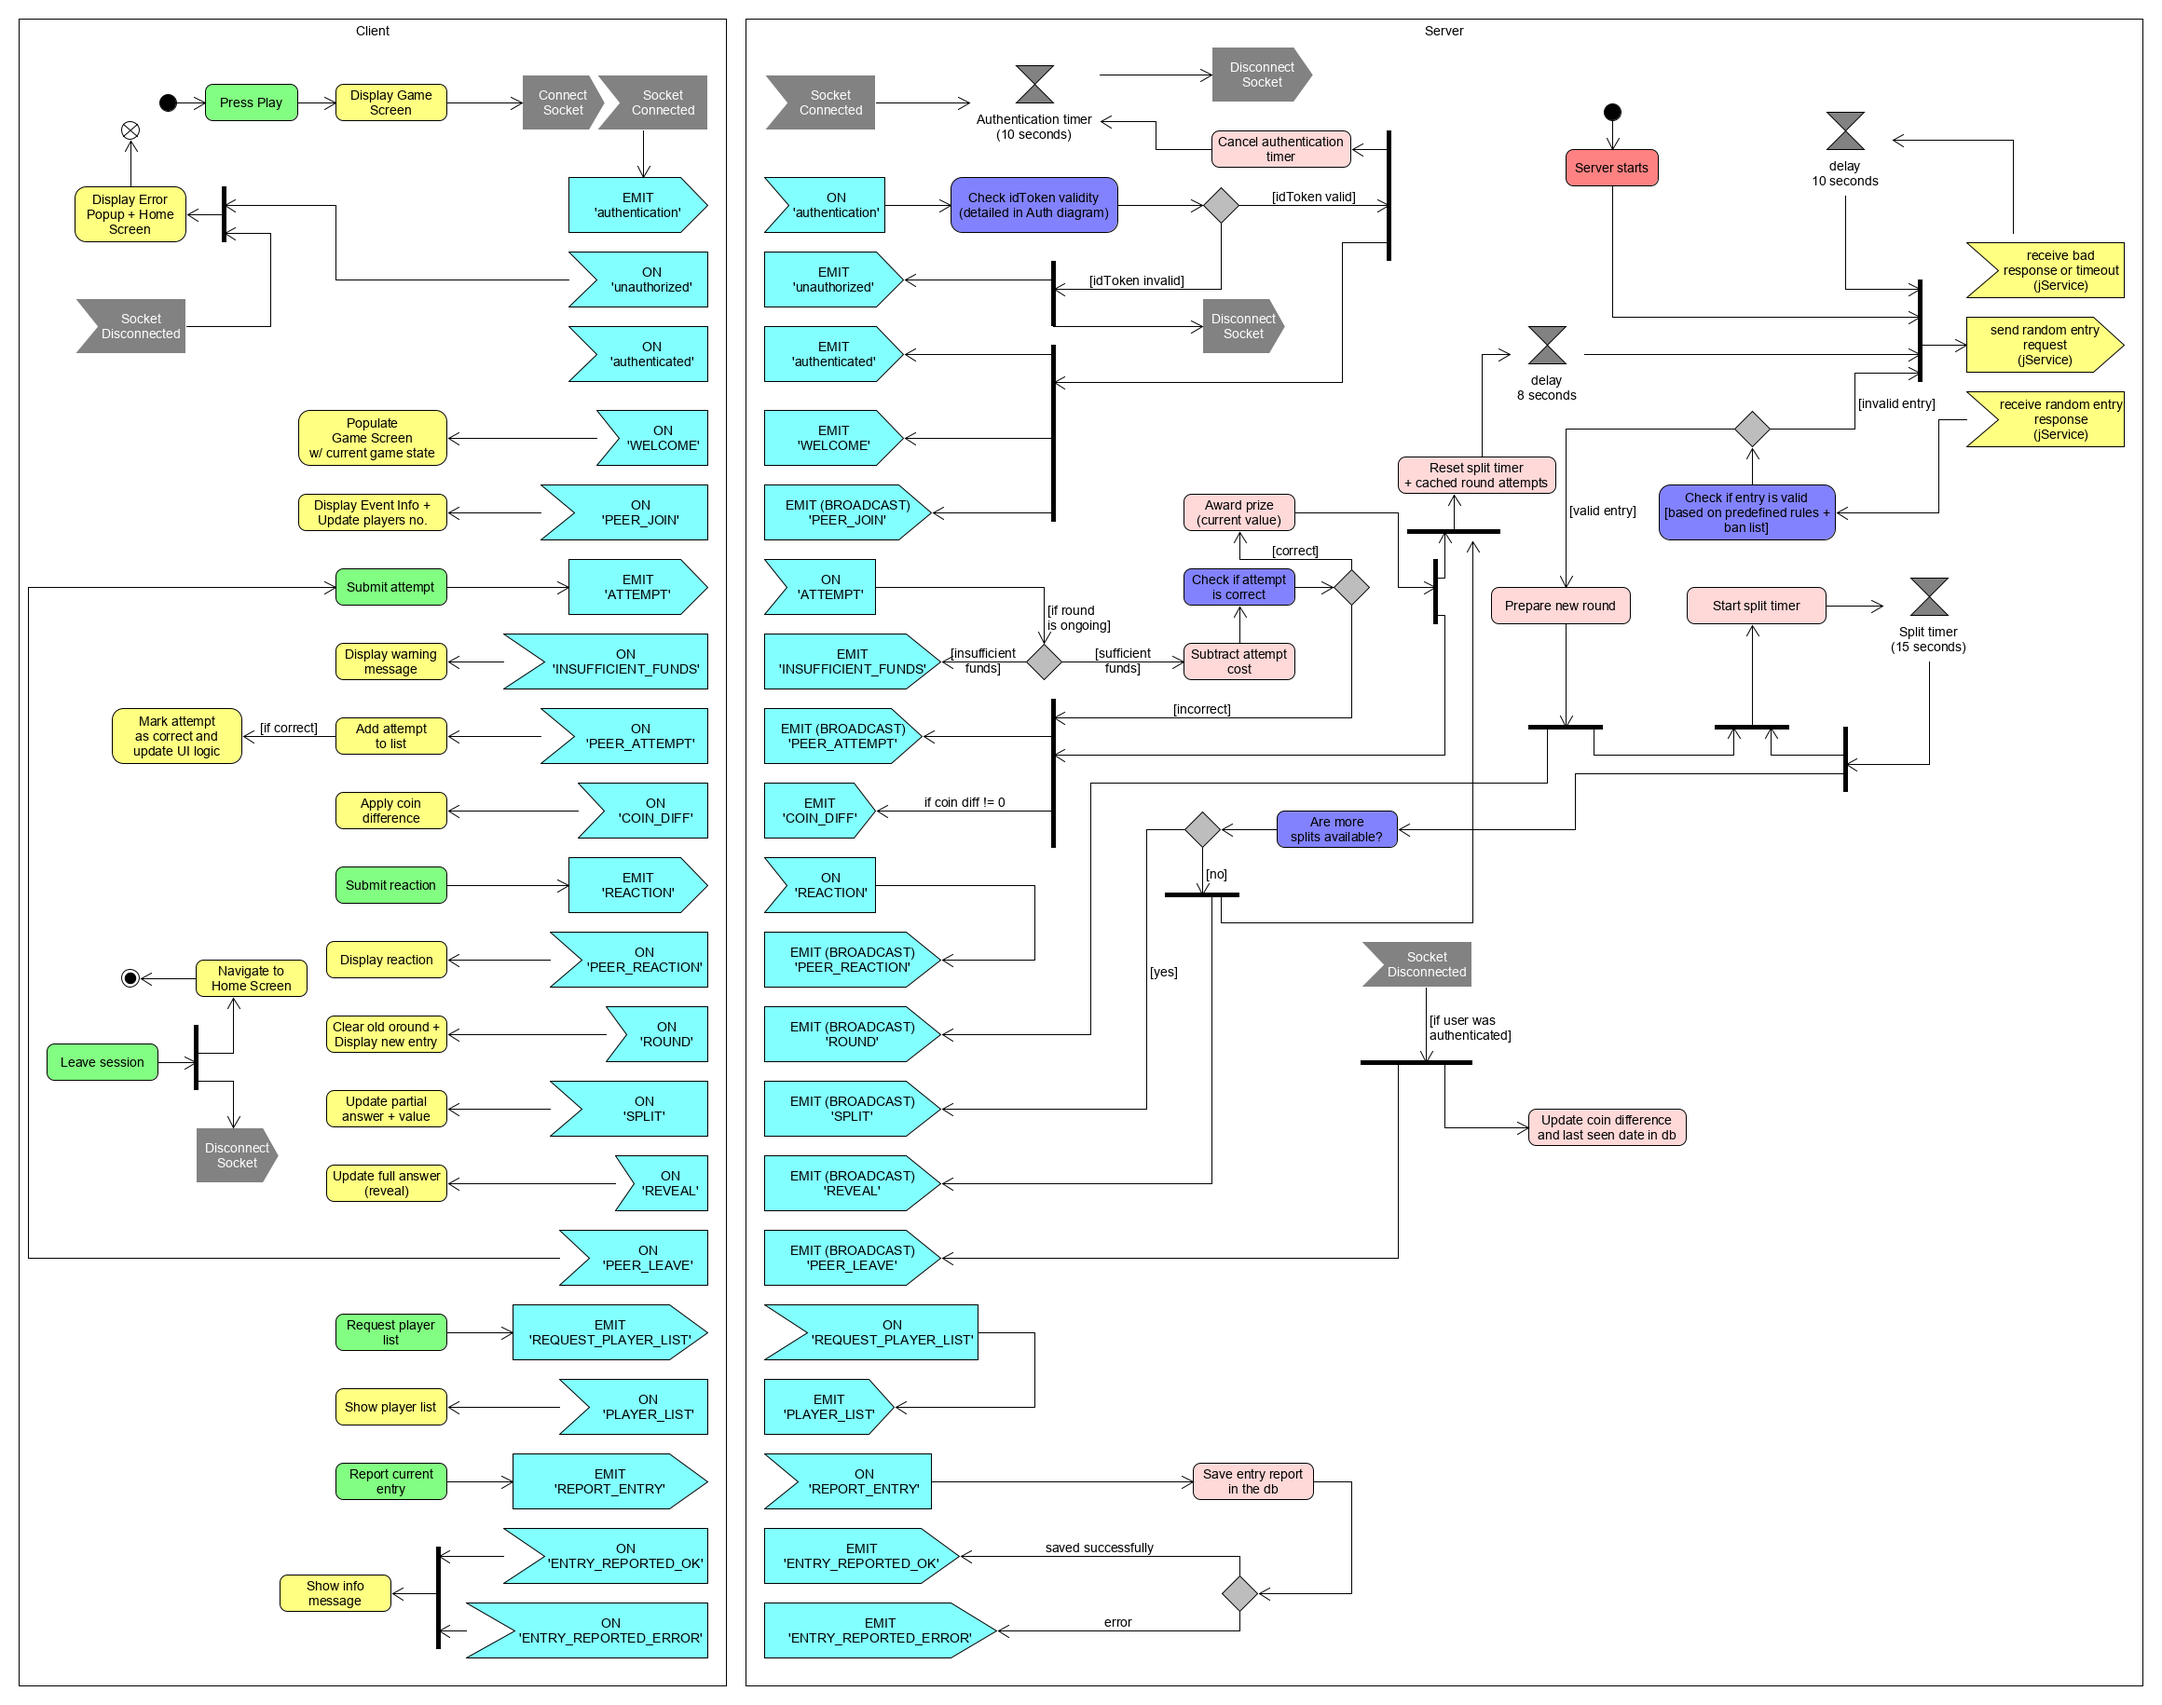
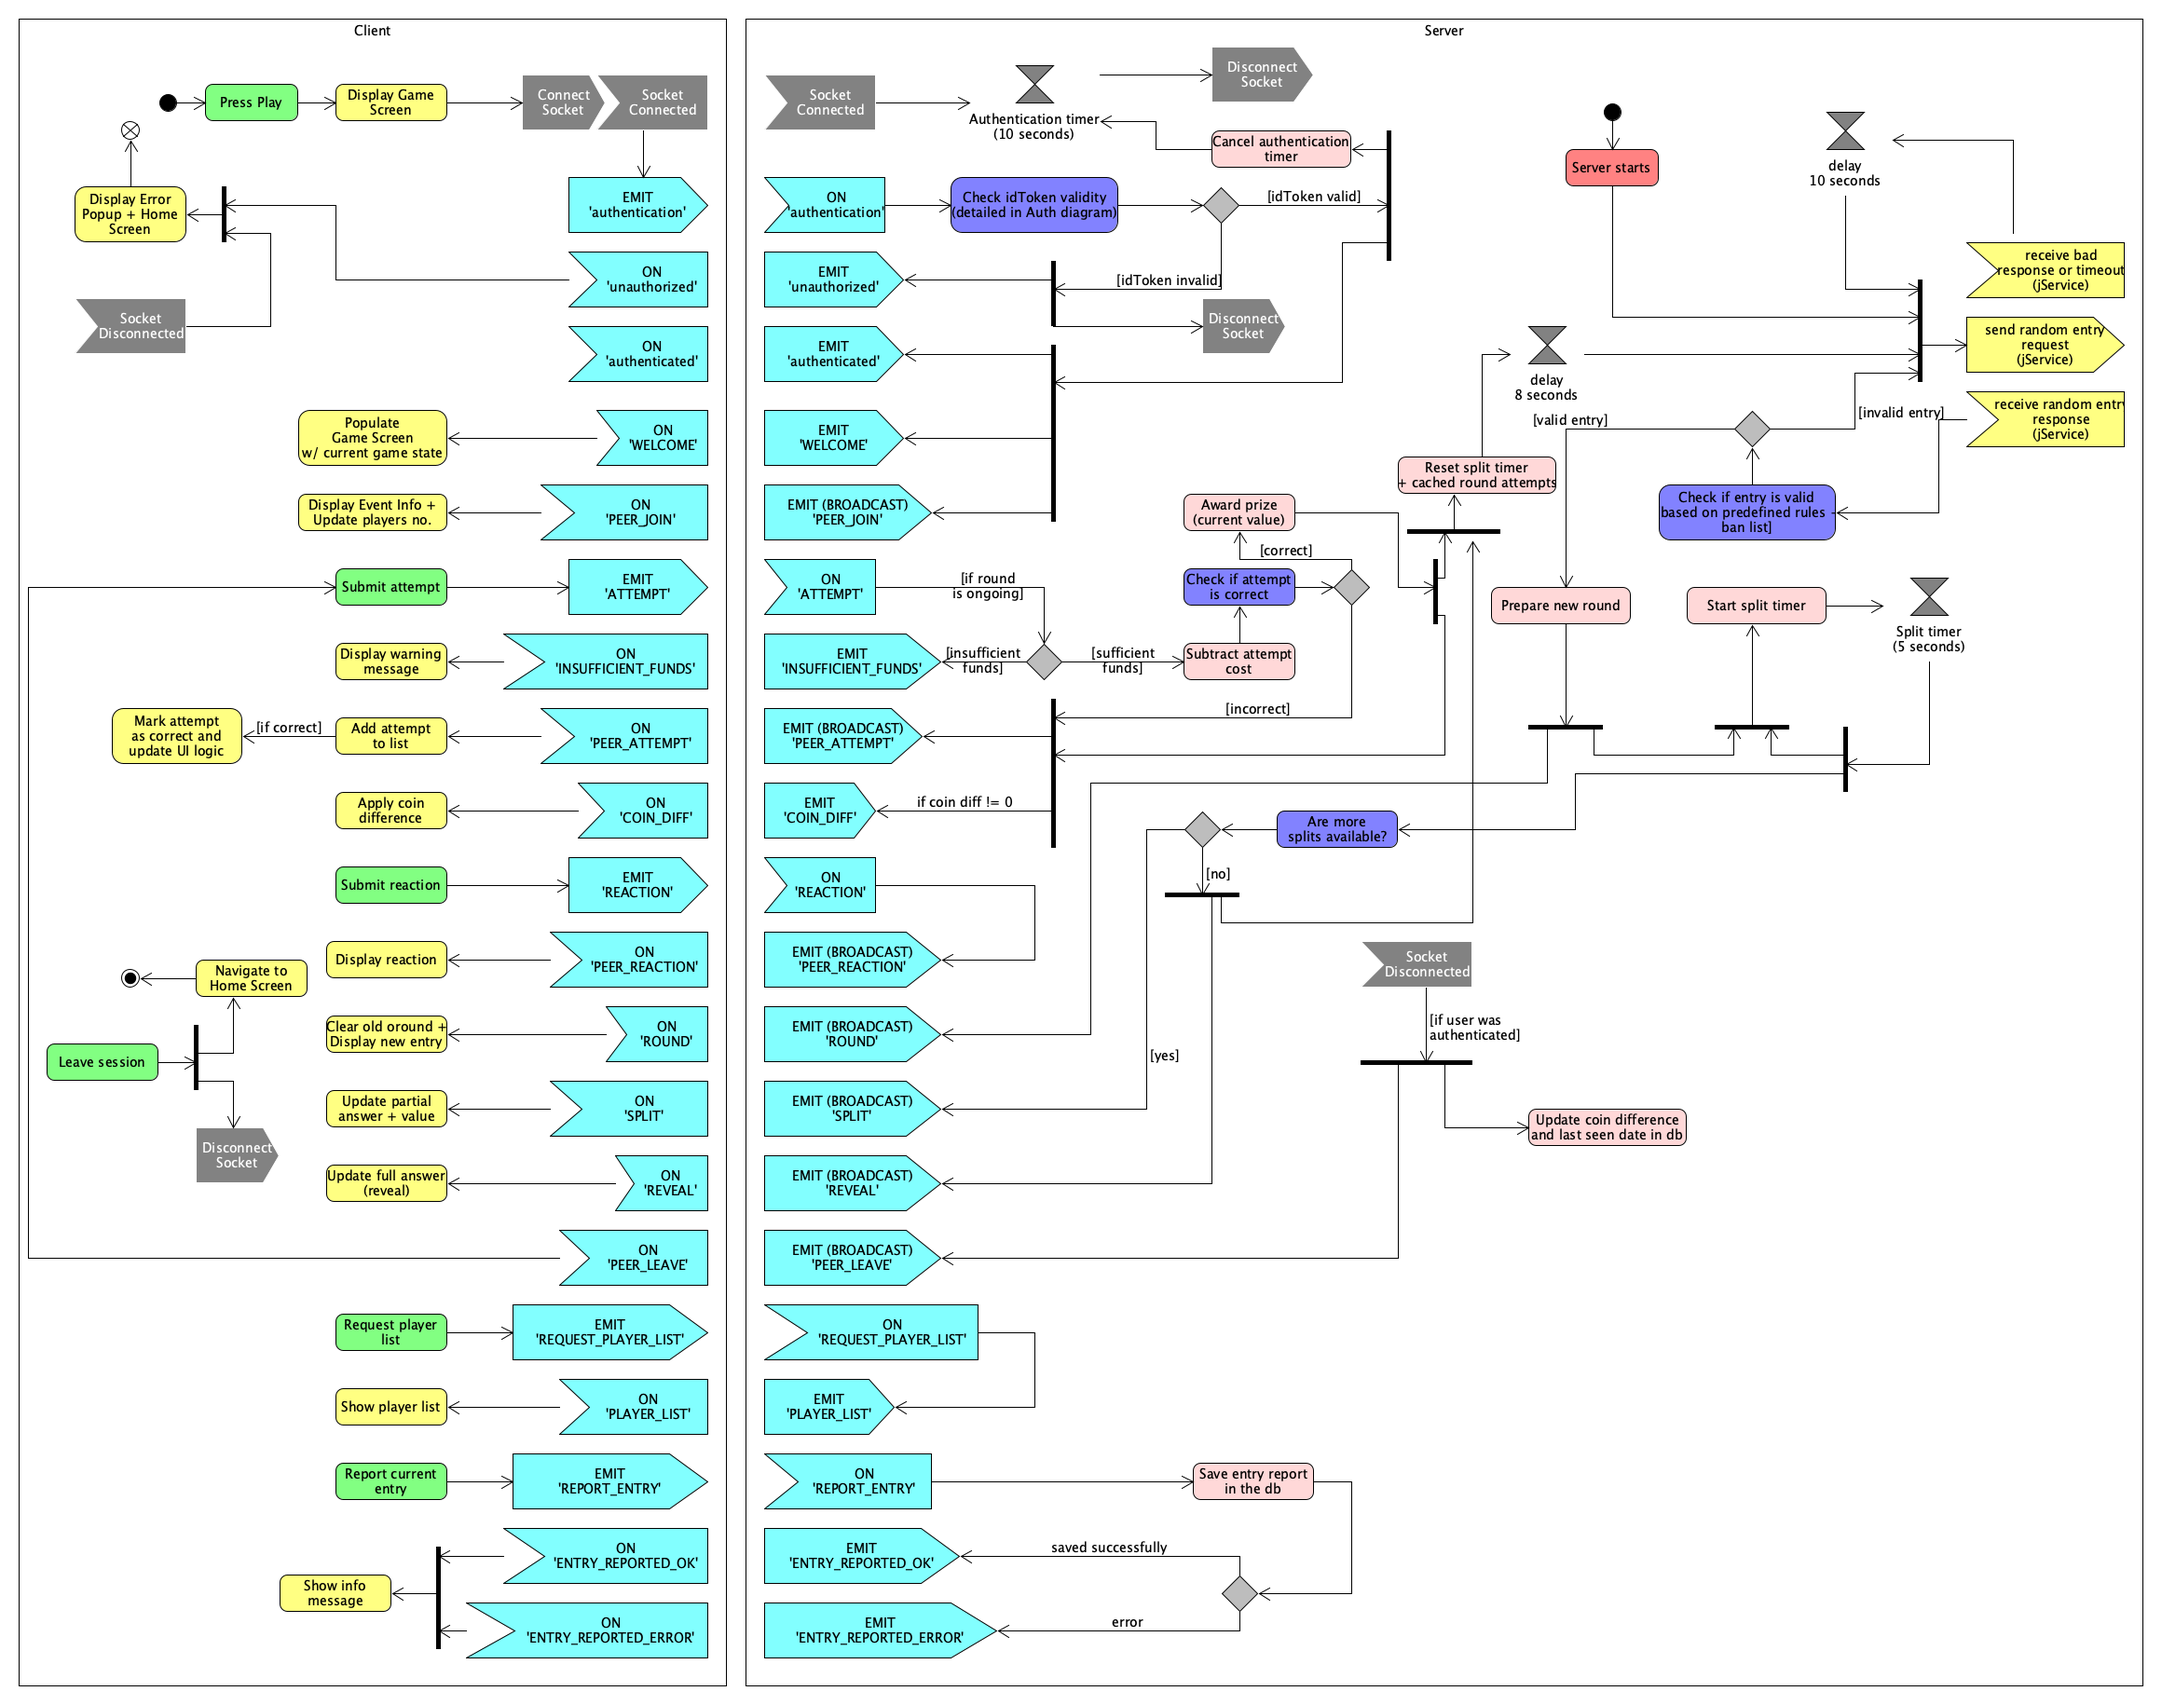
README.md + game-activity diagram update

diff --git a/README.md b/README.md
@@ -1,5 +1,3 @@
-**Update October 14, 2020:** Both the server and the client app are now retired. Feel free to use the sources if you want to deploy your own server-client configuration of this project.
-
 # open-live-trivia-api
 **Open Live Trivia** is an open-source multiplayer trivia game. This repo hosts the server-side part of the project. For the corresponding client app, please check [this](https://github.com/radusalagean/open-live-trivia-app-android) link.
 
@@ -15,7 +13,7 @@ secrets/db_root_password.txt
 - Every player has 3 free attempts available to submit the correct answer
 - Additional attempts will cost 1 point
 - The answers are case insensitive
-- Every 15 seconds, a new random character is revealed from the answer (defined as a split)
+- Every 5 seconds, a new random character is revealed from the answer (defined as a split)
 - Entries range from 10 to 100 points in value (based on their difficulty)
 - Their value decreases as more characters are revealed
 - The first player to submit the correct answer wins the prize and the round is over
@@ -46,24 +44,24 @@ The communication of game-specific events between the server and the client is b
 [View the full resolution version](https://raw.githubusercontent.com/radusalagean/open-live-trivia-api/master/diagrams/game-activity.png)
 
 ## Usage
-Base URL: `https://releasetracker.app/open-live-trivia-api/v1/`
+Base URL: `https://openlivetrivia.com/api/v1/`
 
 For requests marked as `🔒`, you need to have the `Authorization` header set with your Firebase `idToken`.
 
-For requests marked as `🗐`, the results will be paginated and pagination-specific query string can be passed to specify the `page` number. Example: `https://releasetracker.app/open-live-trivia-api/v1/user/leaderboard?page=2`.
+For requests marked as `🗐`, the results will be paginated and pagination-specific query string can be passed to specify the `page` number. Example: `https://openlivetrivia.com/api/v1/user/leaderboard?page=2`.
 
 For all POST / PUT requests that have a json body provided, you need to set the `application/json` value for the `Content-Type` header.
 
 In the documentation, certain attributes displayed with a colon in the beginning (e.g. `:id`) need to be replaced with a corresponding value when you are making the call.
 
 **Profile image access url:**
-`https://releasetracker.app/open-live-trivia-api-static/user-thumbnails/:filename`, where:
+`https://openlivetrivia.com/public/user-thumbnails/:filename`, where:
 - `filename` = `userId` + `.png`
 
-Example: `https://releasetracker.app/open-live-trivia-api-static/user-thumbnails/5d1f77e3adc09e1fe5a9aa9e.png`
+Example: `https://openlivetrivia.com/public/user-thumbnails/5d1f77e3adc09e1fe5a9aa9e.png`
 
 ## Socket-based events `🔌`
-**Access url:** `https://releasetracker.app/open-live-trivia-api/socket.io`
+**Access url:** `https://openlivetrivia.com/api/socket.io`
 ### Client `📣` -> `🎧` Server events
 | **Event**| **Description**|
 |----------|----------------|
@@ -224,7 +222,7 @@ Example: `https://releasetracker.app/open-live-trivia-api-static/user-thumbnails
     
 ## Users `👤`
 ### Register `🔒`
-**[<code>POST</code> user/register](https://releasetracker.app/open-live-trivia-api/v1/user/register)**
+**[<code>POST</code> user/register](https://openlivetrivia.com/api/v1/user/register)**
 
 Request Body Parameters:
 - `username` - *String* (required)
@@ -253,7 +251,7 @@ Specific restrictions:
 - Note: spaces are allowed in usernames
 
 ### Login `🔒`
-**[<code>POST</code> user/login](https://releasetracker.app/open-live-trivia-api/v1/user/login)**
+**[<code>POST</code> user/login](https://openlivetrivia.com/api/v1/user/login)**
 
 Example Response Body **`200 OK`**:
 ```json
@@ -267,7 +265,7 @@ Example Response Body **`200 OK`**:
 ```
 
 ### Delete user `🔒`
-**[<code>DELETE</code> user/delete](https://releasetracker.app/open-live-trivia-api/v1/user/delete)**
+**[<code>DELETE</code> user/delete](https://openlivetrivia.com/api/v1/user/delete)**
 
 Example Response Body **`200 OK`**:
 ```json
@@ -279,7 +277,7 @@ Specific restrictions:
 - Admins are not allowed to remove their accounts
 
 ### Username availability
-**[<code>GET</code> user/availability/:username](https://releasetracker.app/open-live-trivia-api/v1/user/availability/radu)**
+**[<code>GET</code> user/availability/:username](https://openlivetrivia.com/api/v1/user/availability/radu)**
 
 Request URL parameters:
 - `username` - candidate username (required)
@@ -289,7 +287,7 @@ Response codes:
 - **`409 CONFLICT`** - Username is unavailable for registration
 
 ### Update user rights `🔒 ADMIN`
-**[<code>PUT</code> user/rights/:user_id/:rights_level](https://releasetracker.app/open-live-trivia-api/v1//user/rights/5d18a18aa12e471d24085d2e/1)**
+**[<code>PUT</code> user/rights/:user_id/:rights_level](https://openlivetrivia.com/api/v1//user/rights/5d18a18aa12e471d24085d2e/1)**
 
 Request URL parameters:
 - `user_id` - the id of the target user (required)
@@ -306,7 +304,7 @@ Example Response Body **`200 OK`**:
 ```
 
 ### Leaderboard `🔒` `🗐`
-**[<code>GET</code> user/leaderboard](https://releasetracker.app/open-live-trivia-api/v1/user/leaderboard)**
+**[<code>GET</code> user/leaderboard](https://openlivetrivia.com/api/v1/user/leaderboard)**
 
 Example Response Body **`200 OK`**:
 ```json
@@ -330,7 +328,7 @@ Example Response Body **`200 OK`**:
 ```
 
 ### Me `🔒`
-**[<code>GET</code> user/me](https://releasetracker.app/open-live-trivia-api/v1/user/me)**
+**[<code>GET</code> user/me](https://openlivetrivia.com/api/v1/user/me)**
 
 Example Response Body **`200 OK`**:
 ```json
@@ -345,7 +343,7 @@ Example Response Body **`200 OK`**:
 
 ## Entry reports `🚩`
 ### Query reports `🔒 MODERATOR / ADMIN` `🗐`
-**[<code>GET</code> reported_entry/get_reports](https://releasetracker.app/open-live-trivia-api/v1/reported_entry/get_reports)**
+**[<code>GET</code> reported_entry/get_reports](https://openlivetrivia.com/api/v1/reported_entry/get_reports)**
 
 Request URL query string parameters:
 - `banned` - *Boolean* (optional)
@@ -380,7 +378,7 @@ Example Response Body **`200 OK`**:
 Note: Entries currently running in the game will be excluded from the results.
 
 ### Ban reported entry `🔒 MODERATOR / ADMIN`
-**[<code>PUT</code> reported_entry/ban/:report_id](https://releasetracker.app/open-live-trivia-api/v1/reported_entry/ban/5d1f379a78c6e7342c49488e)**
+**[<code>PUT</code> reported_entry/ban/:report_id](https://openlivetrivia.com/api/v1/reported_entry/ban/5d1f379a78c6e7342c49488e)**
 
 Request URL parameters:
 - `report_id` - the id of the target report (required)
@@ -393,7 +391,7 @@ Example Response Body **`200 OK`**:
 ```
 
 ### Unban reported entry `🔒 MODERATOR / ADMIN`
-**[<code>PUT</code> reported_entry/unban/:report_id](https://releasetracker.app/open-live-trivia-api/v1/reported_entry/unban/5d1f379a78c6e7342c49488e)**
+**[<code>PUT</code> reported_entry/unban/:report_id](https://openlivetrivia.com/api/v1/reported_entry/unban/5d1f379a78c6e7342c49488e)**
 
 Request URL parameters:
 - `report_id` - the id of the target report (required)
@@ -406,7 +404,7 @@ Example Response Body **`200 OK`**:
 ```
 
 ### Dismiss reported entry `🔒 MODERATOR / ADMIN`
-**[<code>PUT</code> reported_entry/dismiss/:report_id](https://releasetracker.app/open-live-trivia-api/v1/reported_entry/dismiss/5d1f379a78c6e7342c49488e)**
+**[<code>PUT</code> reported_entry/dismiss/:report_id](https://openlivetrivia.com/api/v1/reported_entry/dismiss/5d1f379a78c6e7342c49488e)**
 
 Request URL parameters:
 - `report_id` - the id of the target report (required)
@@ -420,7 +418,7 @@ Example Response Body **`200 OK`**:
 
 ## System `⚙`
 ### Disconnect everyone `🔒 ADMIN`
-**[<code>POST</code> system/disconnect_everyone](https://releasetracker.app/open-live-trivia-api/v1/system/disconnect_everyone)**
+**[<code>POST</code> system/disconnect_everyone](https://openlivetrivia.com/api/v1/system/disconnect_everyone)**
 
 Example Response Body **`200 OK`**:
 ```json
@@ -430,7 +428,7 @@ Example Response Body **`200 OK`**:
 ```
 
 ### Info
-**[<code>GET</code> system/info](https://releasetracker.app/open-live-trivia-api/v1/system/info)**
+**[<code>GET</code> system/info](https://openlivetrivia.com/api/v1/system/info)**
 
 Example Response Body **`200 OK`**:
 ```json
